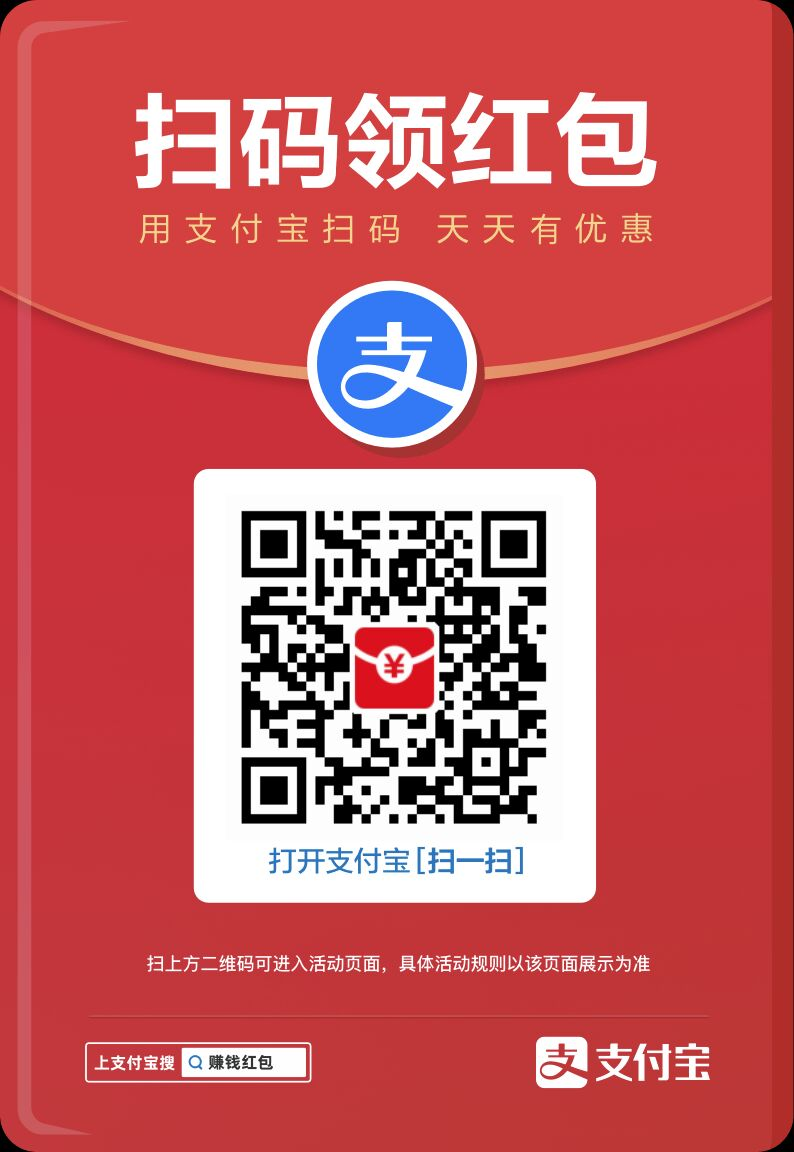
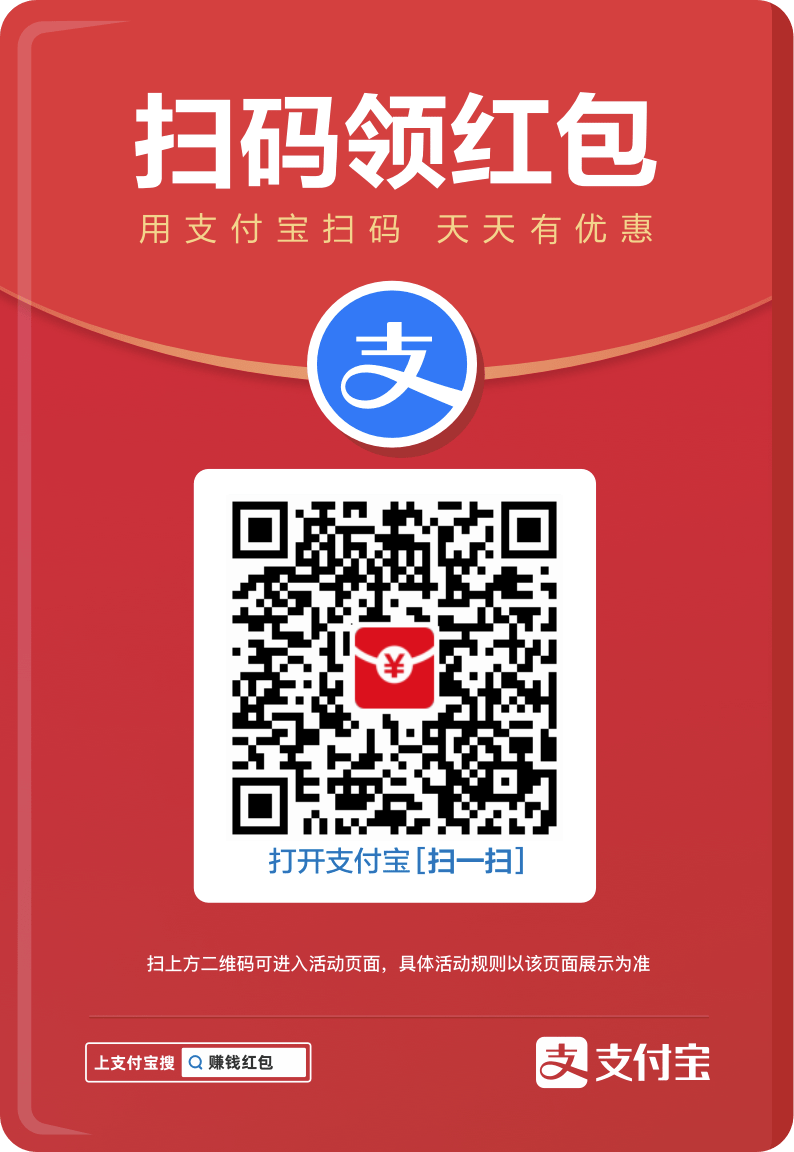
feat: 支付宝红包活动升级到v2版本

diff --git a/config_ui.py b/config_ui.py
@@ -1128,8 +1128,8 @@ class CommonConfigUi(QFrame):
         # -------------- 区域：其他 --------------
         self.collapsible_box_others, form_layout = create_collapsible_box_with_sub_form_layout_and_add_to_parent_layout("其他", top_layout)
 
-        self.checkbox_enable_alipay_redpacket = create_checkbox(cfg.enable_alipay_redpacket)
-        add_row(form_layout, "是否弹出支付宝红包活动图片", self.checkbox_enable_alipay_redpacket)
+        self.checkbox_enable_alipay_redpacket_v2 = create_checkbox(cfg.enable_alipay_redpacket_v2)
+        add_row(form_layout, "是否弹出支付宝红包活动图片", self.checkbox_enable_alipay_redpacket_v2)
 
         self.checkbox_config_ui_enable_high_dpi = create_checkbox(cfg.config_ui_enable_high_dpi)
         add_row(form_layout, "是否启用高DPI模式（如4k屏，启用后请重启配置工具）", self.checkbox_config_ui_enable_high_dpi)
@@ -1187,7 +1187,7 @@ class CommonConfigUi(QFrame):
         cfg.allow_only_one_instance = self.checkbox_allow_only_one_instance.isChecked()
         cfg.try_auto_bind_new_activity = self.checkbox_try_auto_bind_new_activity.isChecked()
         cfg.force_sync_bind_with_djc = self.checkbox_force_sync_bind_with_djc.isChecked()
-        cfg.enable_alipay_redpacket = self.checkbox_enable_alipay_redpacket.isChecked()
+        cfg.enable_alipay_redpacket_v2 = self.checkbox_enable_alipay_redpacket_v2.isChecked()
 
         cfg.http_timeout = self.spinbox_http_timeout.value()
         cfg.log_level = self.combobox_log_level.currentText()

diff --git a/main_def.py b/main_def.py
@@ -1057,14 +1057,16 @@ def show_ask_message_box_sync(cfg: Config):
     if not is_windows():
         return
 
-    if now_before("2021-11-30 23:59:59") and cfg.common.enable_alipay_redpacket and is_daily_first_run("支付宝红包活动") and not use_by_myself():
-        title = "支付宝红包活动"
+    if now_before("2022-01-15 23:59:59") and cfg.common.enable_alipay_redpacket_v2 and is_daily_first_run("支付宝红包活动") and not use_by_myself():
+        title = "支付宝红包活动（v2）"
         message = (
-            "现在支付宝有个红包活动，扫弹出来的这个二维码就可以领取一个红包，在便利店等实体店扫码就可以使用。\n"
+            "现在支付宝有个红包活动，扫弹出来的这个二维码就可以领取一个红包，在便利店等实体店扫码就可以使用，购买小助手的时候似乎也可以使用。\n"
             "你使用后我会同时领到一个小红包，大家一起白嫖-。-\n"
             "\n"
             "\n"
             "如果不想看到该弹窗，可以前往配置工具，取消勾选 公共配置/其他/是否弹出支付宝红包活动图片 即可，否则将每天运行时弹出一次0-0"
+            "\n"
+            "支付宝这个红包活动延期了-。-所以我把开关调整了下，之前关闭过的，如果真的不想看到，可以再去点一点<_<\n"
         )
         message_box(message, title, open_image="付费指引/支付宝红包活动.jpg")
 

diff --git a/config.py b/config.py
@@ -776,7 +776,7 @@ class CommonConfig(ConfigInterface):
         # 马杰洛赠送礼包inviteUin列表，点赠送后查看链接中的inviteUin参数可知
         self.majieluo_invite_uin_list = []  # type: List[str]
         # 是否弹出支付宝红包活动图片
-        self.enable_alipay_redpacket = True
+        self.enable_alipay_redpacket_v2 = True
 
         # 登录各个阶段的最大等待时间，单位秒（仅二维码登录和自动登录需要配置，数值越大容错性越好）
         self.login = LoginConfig()
